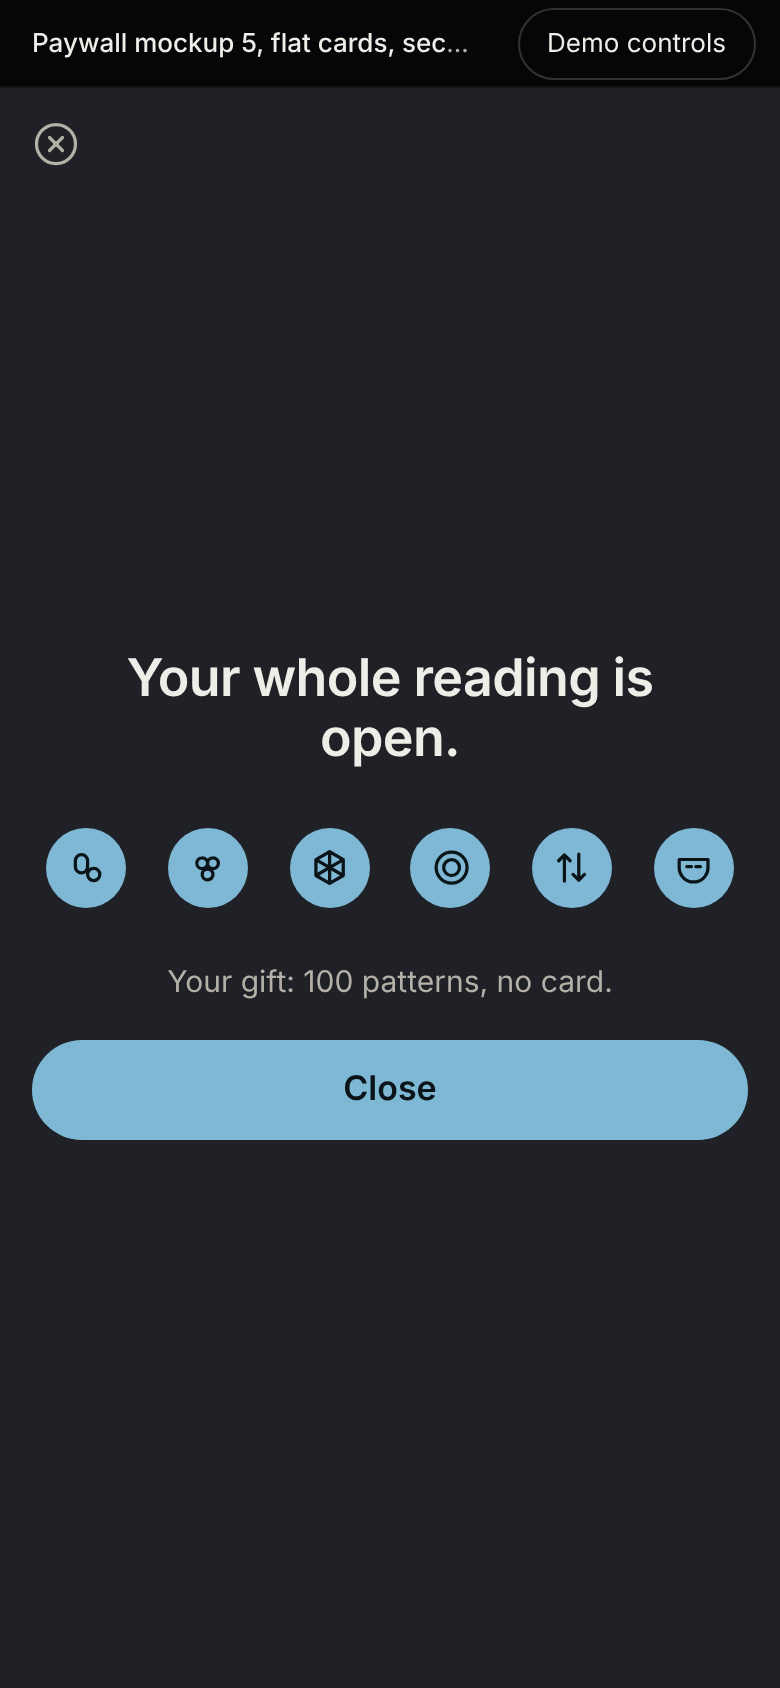
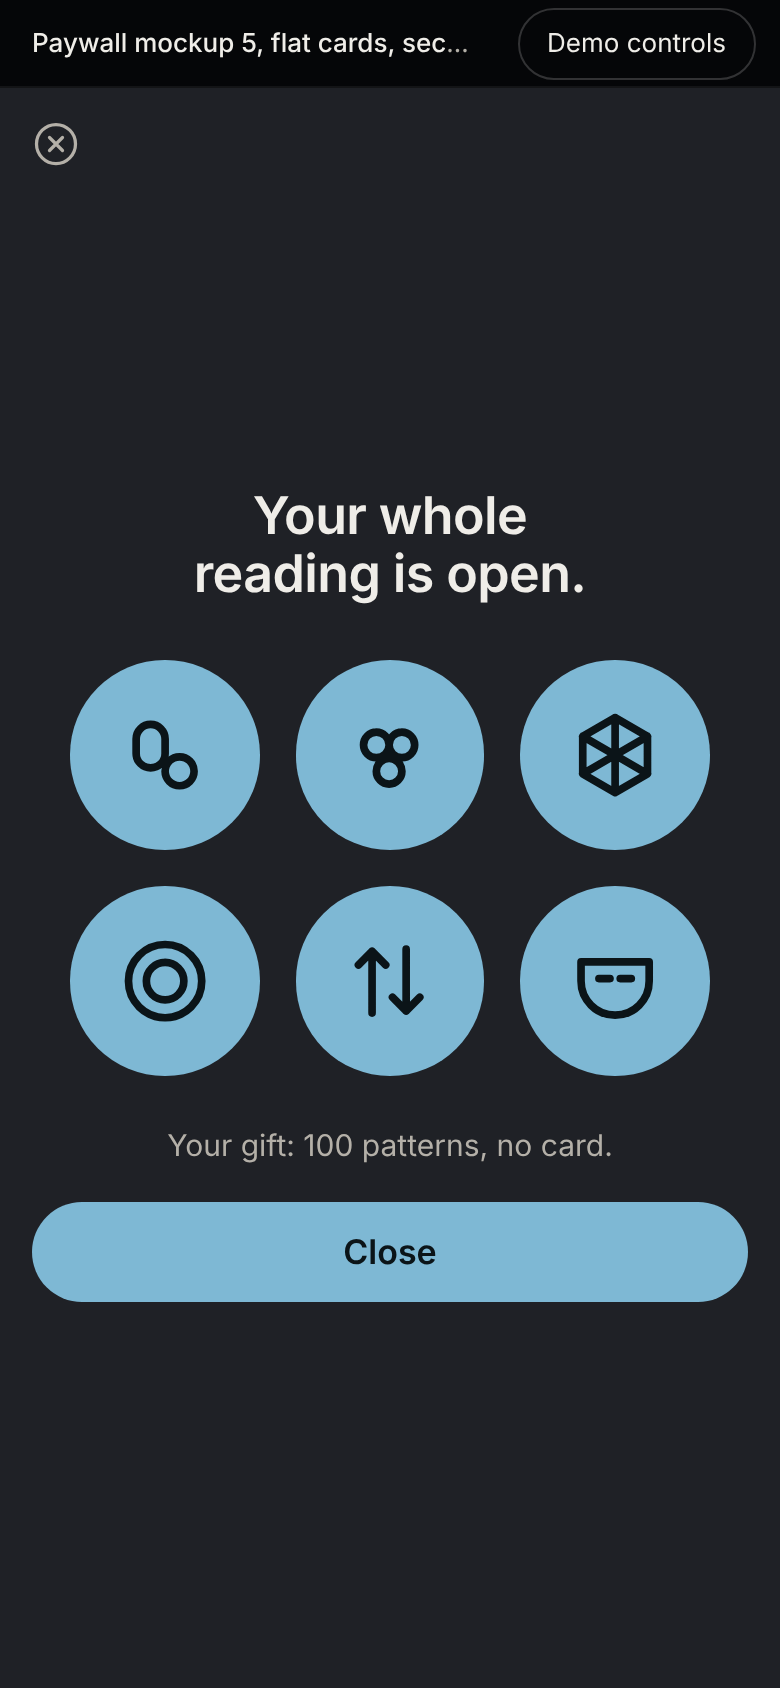
Paywall p5: fixes found by eye, card overflow gate, phone tooltip inside its card
Claude-Session: https://claude.ai/code/session_016LLF9NZj8M8zDK26vbWgWq

Changed region(s): [[0.0308, 0.2773, 0.9538, 0.7701]]

diff --git a/mockups/paywall/p5-flat-cards-v2.html b/mockups/paywall/p5-flat-cards-v2.html
@@ -274,10 +274,16 @@ body.punch .tipbox{box-shadow:none;background:color-mix(in srgb,var(--panel-2) 7
 .ft5 .links{margin:0}
 
 /* ---- signed out: the chosen card beside the account step ---- */
-.step5{flex:1;min-height:0;display:grid;grid-template-columns:1fr 1fr;gap:28px;margin-top:14px;align-items:stretch}
-.step5 .acct{align-content:center;max-width:460px}
-.step5 .acct .why b{color:var(--ink);font-weight:600;font-size:22px}
+.step5{flex:1;min-height:0;display:grid;grid-template-columns:1fr 2fr;gap:14px;margin-top:14px;align-items:stretch}
+/* the chosen card keeps its size from the three-up, and the form takes the rest */
+.step5 .acct{align-content:center;justify-self:center;width:min(520px,100%);gap:14px}
+.step5 .acct .why b{color:var(--ink);font-weight:600;font-size:28px}
+.step5 .acct label{font-size:16px}
+.step5 .acct input{min-height:56px;font-size:18px;padding:0 16px}
+.step5 .acct .go{min-height:60px;font-size:19px;border-radius:30px;margin-top:6px}
+.step5 .acct .alt{font-size:16px}
 .step5 .act[hidden]{display:none}
+.step5 .c5{justify-content:center;gap:clamp(20px,5vh,56px)}
 
 /* ---- the tooltip ---- */
 .tip5{position:fixed;z-index:60;display:none;background:#3A3D4A;color:var(--ink);border-radius:var(--r-s);padding:12px 14px;font-size:14.5px;line-height:1.4;pointer-events:none}
@@ -288,7 +294,11 @@ body.punch .tipbox{box-shadow:none;background:color-mix(in srgb,var(--panel-2) 7
 .tip5.dn::after{top:-8px;clip-path:polygon(50% 0,100% 100%,0 100%)}
 .tip5 b{font-size:16px;font-weight:600}
 .tip5 .m{color:var(--ink)}
-.tip5 .tl{display:flex;align-items:center;gap:8px;color:var(--ink);font-weight:600;margin-top:2px}
+.tip5 .r1{display:contents}
+.tip5 .tl{order:2}
+.tip5 .r1 b{order:0}
+.tip5 .m{order:1}
+.tip5 .tl{display:flex;align-items:center;gap:8px;color:var(--ink);font-weight:600}
 .tip5 .tl svg{width:18px;height:18px;flex:none}
 
 /* ---- the gift: six lit rings, nothing to buy ---- */
@@ -300,6 +310,12 @@ body.punch .tipbox{box-shadow:none;background:color-mix(in srgb,var(--panel-2) 7
 
 /* ---- stop, the same family ---- */
 .p5stop .facts .v{font-size:18px}
+@media (max-width:760px){
+ .p5stop{display:flex;flex-direction:column;justify-content:center}
+ .p5stop .t1{margin-top:0;font-size:28px}
+ .p5stop .facts li{padding:16px}
+ .p5stop .facts .v{font-size:19px}
+}
 
 /* ---- the phone ---- */
 @media (max-width:760px){
@@ -342,10 +358,24 @@ body.punch .tipbox{box-shadow:none;background:color-mix(in srgb,var(--panel-2) 7
  .ft5 .links a,.ft5 .links button{padding:0 7px;font-size:13px}
  .ft5 .rf5{font-size:12.5px;margin-top:4px}
  .step5{grid-template-columns:1fr;gap:18px;margin-top:8px;align-content:center}
+ .step5 .acct .why b{font-size:19px}
+ .step5 .acct input{min-height:48px;font-size:16px}
+ .step5 .acct .go{min-height:52px;font-size:17px}
  .step5 .c5{grid-template-areas:"top pr" "rg rg"}
- .step5 .acct .why b{font-size:17px}
  .gift5 .t1{font-size:26px;padding:0 30px}
- .giftrgs{margin-top:28px;gap:6px}
+ /* the refusal is the newest fact, so on a phone it takes the marker's place */
+ .p5.failed .hd5 .herechip{display:none}
+ /* a compact tooltip: the name and its tier on one row, the meaning under it,
+    so it sits inside the card's own top row and cuts no words in half */
+ .tip5{padding:9px 12px;font-size:14px}
+ .tip5 .r1{display:flex;align-items:center;justify-content:space-between;gap:10px;order:0}
+ .tip5 .r1 b{font-size:15px;white-space:nowrap}
+ .tip5 .tl{font-size:13.5px;gap:6px;white-space:nowrap}
+ .tip5 .tl svg{width:15px;height:15px}
+ .giftrgs{margin-top:28px;gap:18px;grid-template-columns:repeat(3,1fr);width:min(320px,100%)}
+ .giftrgs .rg5{aspect-ratio:1;height:auto}
+ .giftrgs .rg5 .dk{width:100%;height:100%}
+ .gift5 .t1{text-wrap:balance}
  .gift5 .gq{font-size:15px;margin:24px 0 18px}
 }
 
@@ -729,7 +759,7 @@ function render(){
  RID=0;
  const step2=!SIGNED&&STATE.go;
  const chosen=step2?TIER(STATE.pick||DOOR||'one'):null;
- return '<div class="sheet p5" role="dialog" aria-modal="true" aria-labelledby="t1">'+xBtn()+head5()
+ return '<div class="sheet p5'+(S==='failed'?' failed':'')+'" role="dialog" aria-modal="true" aria-labelledby="t1">'+xBtn()+head5()
   +(step2
    ?'<div class="step5">'+card5(chosen).replace('<div class="act"><button class="go','<div class="act" hidden><button class="go')+acct5(chosen)+'</div>'
    :'<div class="cards5">'+TIERS.map(card5).join('')+'</div>'+prac5())
@@ -766,11 +796,11 @@ function tipBox(){if(!TIP){TIP=document.createElement('div');TIP.className='tip5
 function tipShow(el,pin){
  const b=tipBox();
  if(el.classList.contains('rg5')){const k=el.dataset.k;
-  b.innerHTML='<b>'+WORD[k]+'</b><span class="m">'+MEAN[k]+'</span><span class="tl">'
-   +(el.dataset.tl===W5.seeNow||el.dataset.tl==='Open on your gift'?staysSvg:lockSvg())+'<span>'+el.dataset.tl+'</span></span>';}
+  b.innerHTML='<span class="r1"><b>'+WORD[k]+'</b><span class="tl">'
+   +(el.dataset.tl===W5.seeNow||el.dataset.tl==='Open on your gift'?staysSvg:lockSvg())+'<span>'+el.dataset.tl+'</span></span></span><span class="m">'+MEAN[k]+'</span>';}
  else b.innerHTML='<span class="m">'+document.getElementById(el.dataset.tip5).textContent+'</span>';
  b.classList.add('on');TIPON=el;TIPPIN=!!pin;
- const r=el.getBoundingClientRect(),w=Math.min(300,innerWidth-24);b.style.width=w+'px';
+ const r=el.getBoundingClientRect(),w=Math.min(innerWidth<761?340:300,innerWidth-24);b.style.width=w+'px';
  const L=Math.max(12,Math.min(innerWidth-w-12,r.left+r.width/2-w/2));b.style.left=L+'px';
  const h=b.offsetHeight;let T=r.top-h-12,up=true;if(T<52){T=r.bottom+12;up=false;}b.style.top=T+'px';
  b.classList.toggle('up',up);b.classList.toggle('dn',!up);b.style.setProperty('--cx',Math.round(Math.max(18,Math.min(w-18,r.left+r.width/2-L)))+'px');

diff --git a/mockups/paywall/src/p5.css b/mockups/paywall/src/p5.css
@@ -72,10 +72,16 @@
 .ft5 .links{margin:0}
 
 /* ---- signed out: the chosen card beside the account step ---- */
-.step5{flex:1;min-height:0;display:grid;grid-template-columns:1fr 1fr;gap:28px;margin-top:14px;align-items:stretch}
-.step5 .acct{align-content:center;max-width:460px}
-.step5 .acct .why b{color:var(--ink);font-weight:600;font-size:22px}
+.step5{flex:1;min-height:0;display:grid;grid-template-columns:1fr 2fr;gap:14px;margin-top:14px;align-items:stretch}
+/* the chosen card keeps its size from the three-up, and the form takes the rest */
+.step5 .acct{align-content:center;justify-self:center;width:min(520px,100%);gap:14px}
+.step5 .acct .why b{color:var(--ink);font-weight:600;font-size:28px}
+.step5 .acct label{font-size:16px}
+.step5 .acct input{min-height:56px;font-size:18px;padding:0 16px}
+.step5 .acct .go{min-height:60px;font-size:19px;border-radius:30px;margin-top:6px}
+.step5 .acct .alt{font-size:16px}
 .step5 .act[hidden]{display:none}
+.step5 .c5{justify-content:center;gap:clamp(20px,5vh,56px)}
 
 /* ---- the tooltip ---- */
 .tip5{position:fixed;z-index:60;display:none;background:#3A3D4A;color:var(--ink);border-radius:var(--r-s);padding:12px 14px;font-size:14.5px;line-height:1.4;pointer-events:none}
@@ -86,7 +92,11 @@
 .tip5.dn::after{top:-8px;clip-path:polygon(50% 0,100% 100%,0 100%)}
 .tip5 b{font-size:16px;font-weight:600}
 .tip5 .m{color:var(--ink)}
-.tip5 .tl{display:flex;align-items:center;gap:8px;color:var(--ink);font-weight:600;margin-top:2px}
+.tip5 .r1{display:contents}
+.tip5 .tl{order:2}
+.tip5 .r1 b{order:0}
+.tip5 .m{order:1}
+.tip5 .tl{display:flex;align-items:center;gap:8px;color:var(--ink);font-weight:600}
 .tip5 .tl svg{width:18px;height:18px;flex:none}
 
 /* ---- the gift: six lit rings, nothing to buy ---- */
@@ -98,6 +108,12 @@
 
 /* ---- stop, the same family ---- */
 .p5stop .facts .v{font-size:18px}
+@media (max-width:760px){
+ .p5stop{display:flex;flex-direction:column;justify-content:center}
+ .p5stop .t1{margin-top:0;font-size:28px}
+ .p5stop .facts li{padding:16px}
+ .p5stop .facts .v{font-size:19px}
+}
 
 /* ---- the phone ---- */
 @media (max-width:760px){
@@ -140,9 +156,23 @@
  .ft5 .links a,.ft5 .links button{padding:0 7px;font-size:13px}
  .ft5 .rf5{font-size:12.5px;margin-top:4px}
  .step5{grid-template-columns:1fr;gap:18px;margin-top:8px;align-content:center}
+ .step5 .acct .why b{font-size:19px}
+ .step5 .acct input{min-height:48px;font-size:16px}
+ .step5 .acct .go{min-height:52px;font-size:17px}
  .step5 .c5{grid-template-areas:"top pr" "rg rg"}
- .step5 .acct .why b{font-size:17px}
  .gift5 .t1{font-size:26px;padding:0 30px}
- .giftrgs{margin-top:28px;gap:6px}
+ /* the refusal is the newest fact, so on a phone it takes the marker's place */
+ .p5.failed .hd5 .herechip{display:none}
+ /* a compact tooltip: the name and its tier on one row, the meaning under it,
+    so it sits inside the card's own top row and cuts no words in half */
+ .tip5{padding:9px 12px;font-size:14px}
+ .tip5 .r1{display:flex;align-items:center;justify-content:space-between;gap:10px;order:0}
+ .tip5 .r1 b{font-size:15px;white-space:nowrap}
+ .tip5 .tl{font-size:13.5px;gap:6px;white-space:nowrap}
+ .tip5 .tl svg{width:15px;height:15px}
+ .giftrgs{margin-top:28px;gap:18px;grid-template-columns:repeat(3,1fr);width:min(320px,100%)}
+ .giftrgs .rg5{aspect-ratio:1;height:auto}
+ .giftrgs .rg5 .dk{width:100%;height:100%}
+ .gift5 .t1{text-wrap:balance}
  .gift5 .gq{font-size:15px;margin:24px 0 18px}
 }

diff --git a/mockups/paywall/src/p5.js b/mockups/paywall/src/p5.js
@@ -125,7 +125,7 @@ function render(){
  RID=0;
  const step2=!SIGNED&&STATE.go;
  const chosen=step2?TIER(STATE.pick||DOOR||'one'):null;
- return '<div class="sheet p5" role="dialog" aria-modal="true" aria-labelledby="t1">'+xBtn()+head5()
+ return '<div class="sheet p5'+(S==='failed'?' failed':'')+'" role="dialog" aria-modal="true" aria-labelledby="t1">'+xBtn()+head5()
   +(step2
    ?'<div class="step5">'+card5(chosen).replace('<div class="act"><button class="go','<div class="act" hidden><button class="go')+acct5(chosen)+'</div>'
    :'<div class="cards5">'+TIERS.map(card5).join('')+'</div>'+prac5())
@@ -162,11 +162,11 @@ function tipBox(){if(!TIP){TIP=document.createElement('div');TIP.className='tip5
 function tipShow(el,pin){
  const b=tipBox();
  if(el.classList.contains('rg5')){const k=el.dataset.k;
-  b.innerHTML='<b>'+WORD[k]+'</b><span class="m">'+MEAN[k]+'</span><span class="tl">'
-   +(el.dataset.tl===W5.seeNow||el.dataset.tl==='Open on your gift'?staysSvg:lockSvg())+'<span>'+el.dataset.tl+'</span></span>';}
+  b.innerHTML='<span class="r1"><b>'+WORD[k]+'</b><span class="tl">'
+   +(el.dataset.tl===W5.seeNow||el.dataset.tl==='Open on your gift'?staysSvg:lockSvg())+'<span>'+el.dataset.tl+'</span></span></span><span class="m">'+MEAN[k]+'</span>';}
  else b.innerHTML='<span class="m">'+document.getElementById(el.dataset.tip5).textContent+'</span>';
  b.classList.add('on');TIPON=el;TIPPIN=!!pin;
- const r=el.getBoundingClientRect(),w=Math.min(300,innerWidth-24);b.style.width=w+'px';
+ const r=el.getBoundingClientRect(),w=Math.min(innerWidth<761?340:300,innerWidth-24);b.style.width=w+'px';
  const L=Math.max(12,Math.min(innerWidth-w-12,r.left+r.width/2-w/2));b.style.left=L+'px';
  const h=b.offsetHeight;let T=r.top-h-12,up=true;if(T<52){T=r.bottom+12;up=false;}b.style.top=T+'px';
  b.classList.toggle('up',up);b.classList.toggle('dn',!up);b.style.setProperty('--cx',Math.round(Math.max(18,Math.min(w-18,r.left+r.width/2-L)))+'px');

diff --git a/mockups/paywall/src/play.js b/mockups/paywall/src/play.js
@@ -30,7 +30,7 @@ ok(await pg.$$eval('.rg5.came',e=>e.length)===3&&await pg.$$eval('.rg5.came',e=>
 ok((await pg.getAttribute('.c5.door','data-pt'))==='two'&&(await pg.$$eval('.c5 .go:not(.quiet)',e=>e.length))===1,'p5 the door card is tier two, the one solid button');
 ok(await pg.$$eval('.c5',cs=>cs.map(c=>c.querySelectorAll('.rg5.on').length).join(','))==='1,2,6','p5 tiers light 1, 2 and 6 rings');
 await pg.hover('.c5[data-pt="one"] .rg5[data-k="hy"]');
-ok(await pg.isVisible('.tip5.on')&&(await pg.textContent('.tip5'))==='Hyper complexesComplexes running together.Opens at tier three','p5 hover a locked ring: name, meaning, the tier that opens it');
+ok(await pg.isVisible('.tip5.on')&&(await pg.textContent('.tip5 b'))==='Hyper complexes'&&(await pg.textContent('.tip5 .m'))==='Complexes running together.'&&(await pg.textContent('.tip5 .tl'))==='Opens at tier three','p5 hover a locked ring: name, meaning, the tier that opens it');
 await pg.mouse.move(5,500);await pg.waitForTimeout(50);ok(!(await pg.isVisible('.tip5.on')),'p5 the tooltip leaves with the pointer');
 await pg.focus('.c5[data-pt="two"] .rg5[data-k="mask"]');ok((await pg.textContent('.tip5 b'))==='Masks'&&(await pg.textContent('.tip5 .tl'))==='Opens at tier three','p5 keyboard focus on a ring shows its tooltip');
 await pg.focus('.c5[data-pt="two"] .rg5[data-k="sab"]');await pg.keyboard.press('Tab');ok(await pg.isVisible('.tip5.on')&&(await pg.textContent('.tip5 b'))==='Complexes','p5 Tab to the next ring moves the tooltip with it');

diff --git a/mockups/paywall/src/shots.js b/mockups/paywall/src/shots.js
@@ -35,6 +35,9 @@ function measure(){
  let lowest=0,clipped=[];
  sheet.querySelectorAll('*').forEach(el=>{if(!vis(el)||el.closest('.vh'))return;const r=el.getBoundingClientRect();if(r.bottom>lowest)lowest=r.bottom;
   if(r.bottom>H+0.5||r.right>Wd+0.5||r.bottom>sr.bottom+0.5)clipped.push((el.className&&el.className.baseVal!==undefined?el.className.baseVal:el.className)+' '+Math.round(r.bottom));});
+ /* nothing may hang out of its own card (caught by eye on p5's failed state at 390) */
+ sheet.querySelectorAll('.c5,.card').forEach(c=>{const cr=c.getBoundingClientRect();c.querySelectorAll('*').forEach(el=>{if(!vis(el))return;const r=el.getBoundingClientRect();
+  if(r.bottom>cr.bottom+0.5||r.right>cr.right+0.5)clipped.push('out of its card: '+(el.className&&el.className.baseVal!==undefined?el.className.baseVal:el.className)+' '+Math.round(r.bottom-cr.bottom));});});
  const scrolls=sheet.scrollHeight>sheet.clientHeight+1||document.documentElement.scrollHeight>H+1;
  /* words and presses */
  const cl=sheet.cloneNode(true);cl.querySelectorAll('.vh,.status').forEach(n=>n.remove());
